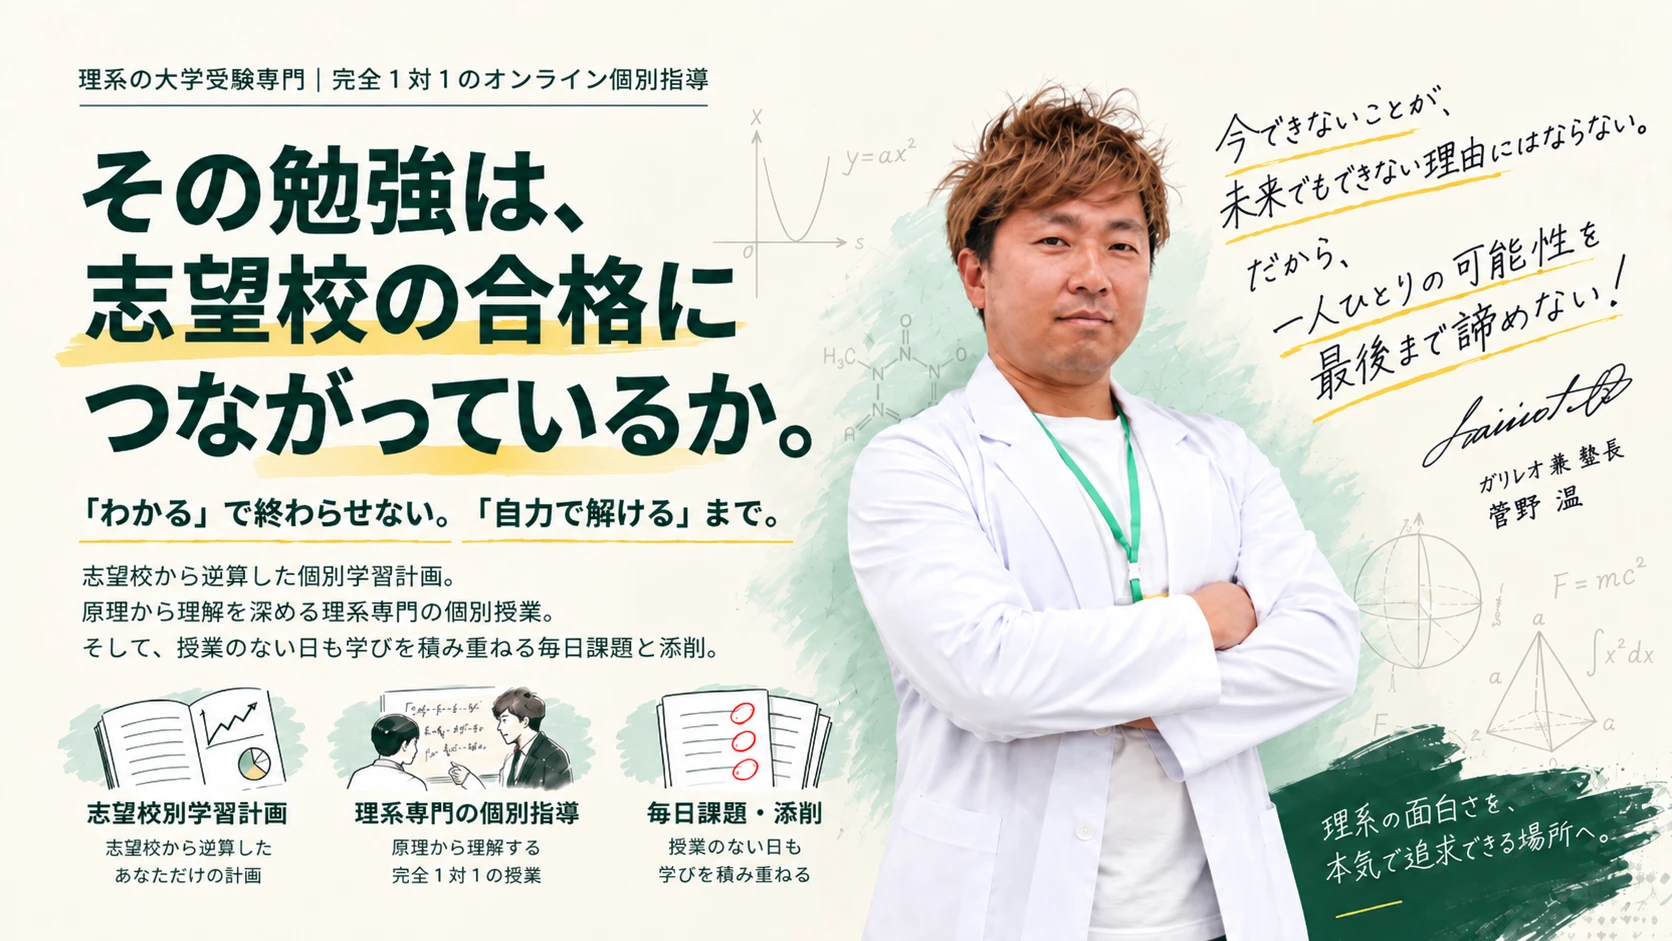
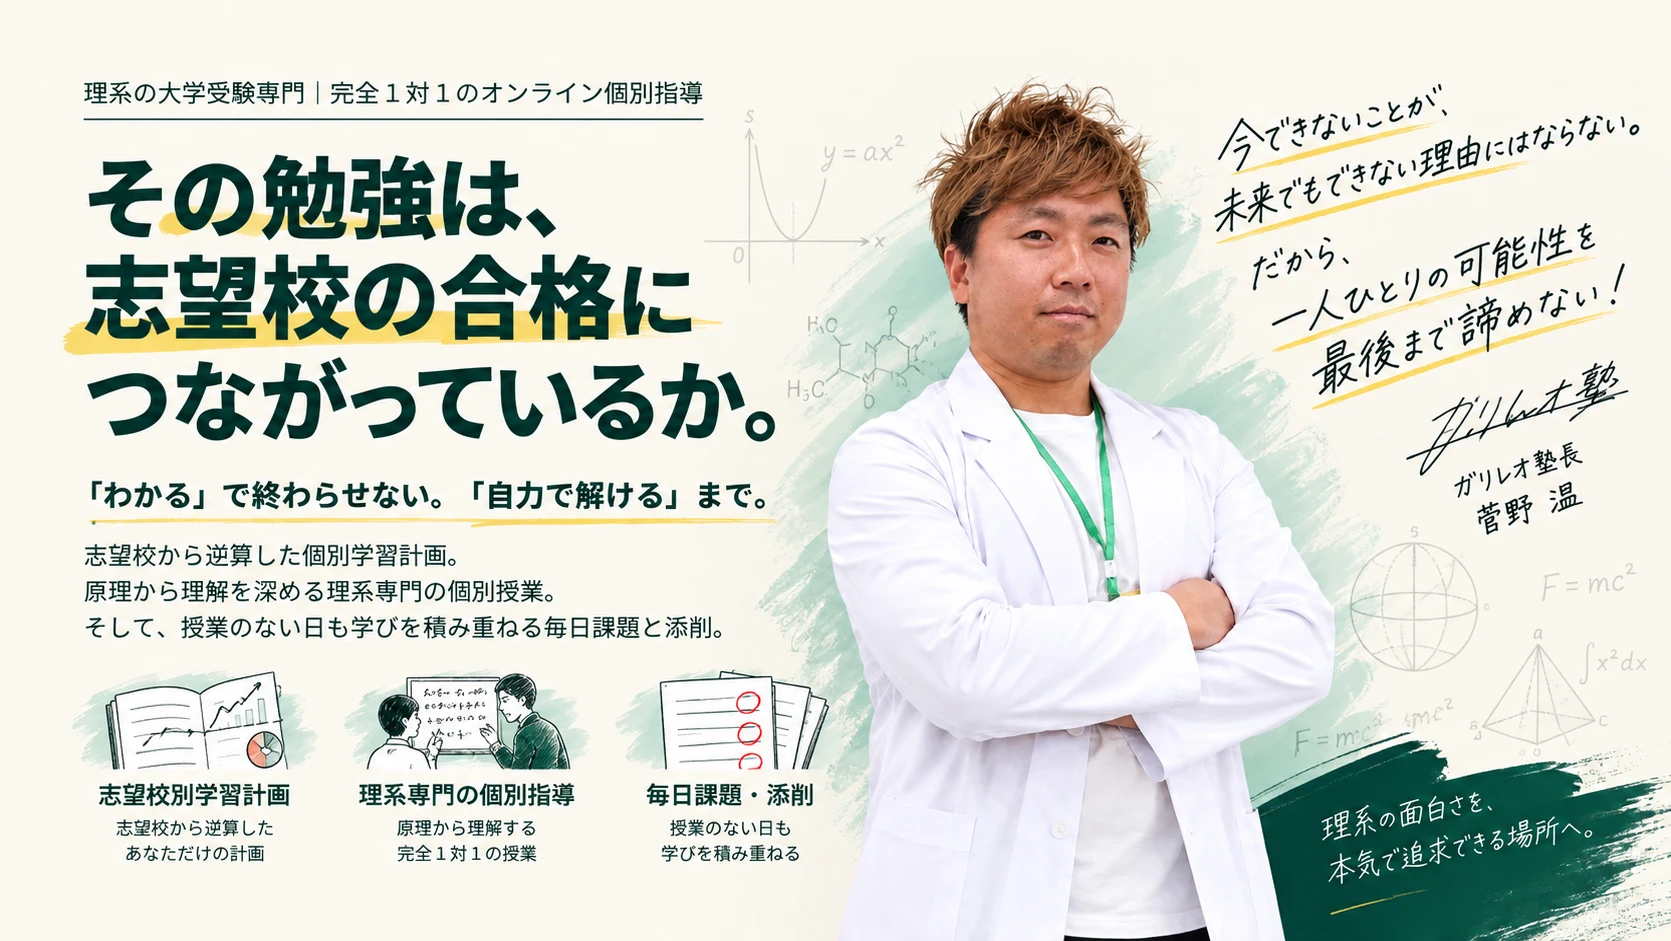
FV画像を「ガリレオ塾長」表記版に差し替え（?v=3）
Claude-Session: https://claude.ai/code/session_01FDtC5D2iuRSCx5F4jHAWHa

Changed region(s): [[0.0311, 0.0616, 1.0, 1.0], [0.4357, 0.1233, 0.4668, 0.1541]]

diff --git a/index.html b/index.html
@@ -21,7 +21,7 @@
 <meta name="twitter:site" content="@galileosciences">
 <link rel="preconnect" href="https://fonts.googleapis.com">
 <link rel="preconnect" href="https://fonts.gstatic.com" crossorigin>
-<link rel="preload" as="image" type="image/webp" href="img/hero-fv-pc.webp?v=2" fetchpriority="high">
+<link rel="preload" as="image" type="image/webp" href="img/hero-fv-pc.webp?v=3" fetchpriority="high">
 <link href="https://fonts.googleapis.com/css2?family=Noto+Sans+JP:wght@400;500;600;700;800&family=Noto+Serif+JP:wght@400;700&display=swap" rel="stylesheet">
 <style>
 /* ===== EMERALD GOLD DESIGN SYSTEM ===== */
@@ -1405,8 +1405,8 @@ if (/^\d+$/.test(GALILEO_META_PIXEL_ID)) {
   <div class="hero-visual">
     <div class="hero-img">
       <picture>
-        <source type="image/webp" srcset="img/hero-fv-pc.webp?v=2">
-        <img src="img/hero-fv-pc.png?v=2" alt="その勉強は、志望校の合格につながっているか。「わかる」で終わらせない。「自力で解ける」まで。— 理系の大学受験専門・完全1対1のオンライン個別指導 ガリレオ" width="1672" height="941" fetchpriority="high" decoding="async">
+        <source type="image/webp" srcset="img/hero-fv-pc.webp?v=3">
+        <img src="img/hero-fv-pc.png?v=3" alt="その勉強は、志望校の合格につながっているか。「わかる」で終わらせない。「自力で解ける」まで。— 理系の大学受験専門・完全1対1のオンライン個別指導 ガリレオ" width="1672" height="941" fetchpriority="high" decoding="async">
       </picture>
     </div>
   </div>
